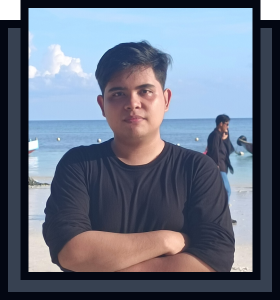
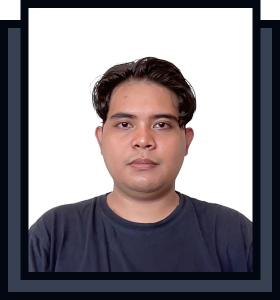
change foto

diff --git a/flutter_service_worker.js b/flutter_service_worker.js
@@ -3,7 +3,7 @@ const MANIFEST = 'flutter-app-manifest';
 const TEMP = 'flutter-temp-cache';
 const CACHE_NAME = 'flutter-app-cache';
 
-const RESOURCES = {"flutter_bootstrap.js": "c7465c189432228dffa836c9975cdee5",
+const RESOURCES = {"flutter_bootstrap.js": "358169ffe00f2846c32243969c0fe842",
 "version.json": "009c9e65172e010890f7f65fde438006",
 "index.html": "c1c5f29031926111ab3ccb7c551c88f9",
 "/": "c1c5f29031926111ab3ccb7c551c88f9",
@@ -17,17 +17,24 @@ const RESOURCES = {"flutter_bootstrap.js": "c7465c189432228dffa836c9975cdee5",
 "manifest.json": "d40c47d1c161f94dbcb13094d37f1f55",
 ".git/config": "36dfdada96e9bacad0020dd2ea847697",
 ".git/objects/59/62efb2dffef4c259bda261b128fcab4b659c34": "11e1a7683fedc73b6a0da57ee3c6a112",
+".git/objects/59/bc1bffe80440bb9f3e745297bc3b9f7de7b121": "4cb5dece523c9bbf8c472ab7b772b1b0",
 ".git/objects/04/c03aa9caec6df11cef93b58c809b615a085dfb": "5bd9ddd467d99627920ebeed9296c0f3",
+".git/objects/32/aa3cae58a7432051fc105cc91fca4d95d1d011": "4f8558ca16d04c4f28116d3292ae263d",
 ".git/objects/3d/fad2d0cffb232849a5167e586c343c86efaf7e": "916ef562e18b422dac2b3d7c1ae0a9a1",
 ".git/objects/58/b007afeab6938f7283db26299ce2de9475d842": "6c6cbea527763bb3cdff2cecfee91721",
 ".git/objects/58/356635d1dc89f2ed71c73cf27d5eaf97d956cd": "f61f92e39b9805320d2895056208c1b7",
 ".git/objects/94/0477bbc9a8b2702113cb44b5509cc171735ba3": "d4cea884a67c27599a6934643577416a",
 ".git/objects/94/f7d06e926d627b554eb130e3c3522a941d670a": "77a772baf4c39f0a3a9e45f3e4b285bb",
 ".git/objects/0e/7dc24763d99ab01f6663b0ace299679e8de2fa": "d4514dc3b9755dbefc9e0965c2109071",
+".git/objects/05/2c902bf93412706e85a3c358ac624db602d1ef": "4f03b16f5749fcfe809ae1b6c412b271",
 ".git/objects/9d/8c3c1e758ef8711186ae12fb0fd22aaa0f70db": "a391c0384d1cabd19155f2907d961b09",
 ".git/objects/9c/502e92818502755ff467ac1ce394cd51978b2b": "c9884dc42e4e59ea1f9191d6955c6769",
+".git/objects/02/118487d23f3156ebcb6af3f04ad0cbe9cf9570": "b3c1c8ac8e65431758afce1b9a16c9a4",
 ".git/objects/b3/ebbd38f666d4ffa1a394c5de15582f9d7ca6c0": "23010709b2d5951ca2b3be3dd49f09df",
+".git/objects/b3/d10dd568bf8637897503435f0bc9007ad20ac6": "a5ed0c16a76335e4310f307c7b65ccf9",
 ".git/objects/b4/a3ecb9428e2a4b8aff40c099e1c27d64a928f0": "6e4bc29289eb6be950713f1b329eaf0d",
+".git/objects/a2/c2c501d92cade4609fbff2a20d058036a0f07d": "5799cad65f96fe00122233a5625d5041",
+".git/objects/a2/0951a6798efe96cb94824a7bf5f68900474b55": "40a4be48695454de3f3d813ca1fffdfd",
 ".git/objects/bd/677c1de4563b80d8615ffb663e63908eb5cfd1": "2cd08b9352f34724993a69150b17fe30",
 ".git/objects/d1/098e7588881061719e47766c43f49be0c3e38e": "f17e6af17b09b0874aa518914cfe9d8c",
 ".git/objects/d6/9c56691fbdb0b7efa65097c7cc1edac12a6d3e": "868ce37a3a78b0606713733248a2f579",
@@ -37,15 +44,23 @@ const RESOURCES = {"flutter_bootstrap.js": "c7465c189432228dffa836c9975cdee5",
 ".git/objects/c7/4b4bd40b01661de4cd08c953e863c7e83b960c": "f45204f14c6a26a8975891ecb47f5ac1",
 ".git/objects/ee/eed15764228d00bf09b77d9198386f12e5060e": "43048693b5bd47f2bdc8b77f237e467b",
 ".git/objects/c9/bf8af1b92c723b589cc9afadff1013fa0a0213": "632f11e7fee6909d99ecfd9eeab30973",
+".git/objects/c9/9b42aadeb908d25bda6b0f351f0f7763b759d7": "debe6c5359a6f6c0a509e9c4e432d236",
+".git/objects/fc/1ec9fcb90ff9bd8f14c18f14197f9fdf56bd7e": "fa79b5b985b04a4229f2a12082ab4274",
 ".git/objects/fd/e8df8847dec73e3ae94c95de6e032e0cdf7421": "a4d561d964ed0b5f32b13017c24aed80",
 ".git/objects/f2/04823a42f2d890f945f70d88b8e2d921c6ae26": "6b47f314ffc35cf6a1ced3208ecc857d",
+".git/objects/f2/d7af667ef9408111e13f8de9205b5fcc80877c": "aad96ccfe3dbe73df554b219d1905f49",
+".git/objects/f5/010cda95492006dae3638dfb01a8d0822a1e6a": "04eb9fcdf209b67f396e5ab84cb956e2",
+".git/objects/cf/5e5260318d90197a1505087e97abf678945f06": "db45e02112dce67ff6a961dc50282904",
 ".git/objects/fe/3914bcf3baf9d87a873a444cac8aaf9dcd54c1": "372add7dd6cdabc32b9333e8d66bff72",
 ".git/objects/20/cb2f80169bf29d673844d2bb6a73bc04f3bfb8": "b807949265987310dc442dc3f9f492a2",
 ".git/objects/20/1afe538261bd7f9a38bed0524669398070d046": "82a4d6c731c1d8cdc48bce3ab3c11172",
 ".git/objects/18/eb401097242a0ec205d5f8abd29a4c5e09c5a3": "4e08af90d04a082aab5eee741258a1dc",
+".git/objects/27/af4491b3558edf0155a4868279b8f4a7923fdb": "982a2e3d5f63f94b33ce53fc50ccdbd8",
 ".git/objects/16/77d5049c99af3633e7f600dbb998f29cbf5198": "6fe29ca1b24f1ee8dd38dc13bd12c882",
+".git/objects/16/5da67191b73406e15fc3e6cf7cda3c195dc735": "86cfac30d97fb45bba2f4417782645d6",
 ".git/objects/1f/45b5bcaac804825befd9117111e700e8fcb782": "7a9d811fd6ce7c7455466153561fb479",
 ".git/objects/74/c726e32781bc2c0a83170f6800c0ef4cb9ddcf": "69a43282cb8038fd0577dc0529e5d6cb",
+".git/objects/17/f95da9405e4701b3ddb2a6b8b6e29ed47a839d": "aa31a30a1949c9bffd3fe4dbc05e4a2a",
 ".git/objects/7b/fa951a1ce93cd1a633590e1d3c12a13a046294": "ddd28097f2c7fecb3f3873f72e305d8a",
 ".git/objects/8a/a3196d085afc263bb5cc2867f2dc7e7051377e": "82dca47eb6a3308c001e4e1bea9dbe4a",
 ".git/objects/8a/aa46ac1ae21512746f852a42ba87e4165dfdd1": "1d8820d345e38b30de033aa4b5a23e7b",
@@ -55,16 +70,26 @@ const RESOURCES = {"flutter_bootstrap.js": "c7465c189432228dffa836c9975cdee5",
 ".git/objects/88/cfd48dff1169879ba46840804b412fe02fefd6": "e42aaae6a4cbfbc9f6326f1fa9e3380c",
 ".git/objects/9f/0c71b70a49664ced448c63edc9c4ff2bf8cf4a": "bfe12b0c8078a4f477699ecebf5fd96c",
 ".git/objects/6b/cdcc27f22e001e46defdfd9e23f224ff65dd67": "624b5324c1f5198f7f6ede95410d5b7b",
+".git/objects/6b/e909fbf40b23748412f0ea89bf0fae827ed976": "5f118419157d9534688915220cc803f7",
 ".git/objects/07/5b22e8abda428d8e7488a6c22fc1f2d649d6b2": "f2eb2e921fb72d7e4e8986e6bb94f2e9",
 ".git/objects/00/559eeb290fb8036f10633ff0640447d827b27c": "7fbd4486d5ea862eb2c1d2a07b06b395",
+".git/objects/5c/d94d8246c425c1c3990b89eaa50717ee1542f0": "164bf614d36e22b5ca204dd7b9904399",
 ".git/objects/09/4bb6ae24f0cd847d40cb4cc4a2434f2ec9b83b": "b9e6d850322c11db635bcf0a45b762ff",
+".git/objects/5d/15fadf1864d70c7184fca7d3efde79cdf68af5": "79a44d8578cc18e3add64aa6a97f0da0",
+".git/objects/3a/7525f2996a1138fe67d2a0904bf5d214bfd22c": "ab6f2f6356cba61e57d5c10c2e18739d",
+".git/objects/98/57c9b3b0448c92818efc5fda0f206b21914168": "ecbde07c564dabbec0f249821051b8af",
 ".git/objects/37/5c02aa7e4c5a2a7854f11e5b4566d261fce6aa": "0b4a2ab76b3b8e6cd2a698951b608110",
 ".git/objects/6c/4350ccefffcbfce57b238bfa701d2db660311e": "a425cc2de47b0e2cc13c644a41f8d64f",
+".git/objects/39/6098b1132548bf7d558ead8d3ba82706c470bd": "f09b05548fae2f2974423458981c33ac",
+".git/objects/90/bcfcf0a77ab618a826db0fd8b0942963b653af": "fc109675cdf1233dd6599a4c3c0a7a69",
 ".git/objects/d4/3532a2348cc9c26053ddb5802f0e5d4b8abc05": "3dad9b209346b1723bb2cc68e7e42a44",
 ".git/objects/d4/a7f7247b5a20aa97f4519c117932c31697b80b": "7d12b907c4dfbbf54ebae2ff3ebc0cf0",
 ".git/objects/ba/5317db6066f0f7cfe94eec93dc654820ce848c": "9b7629bf1180798cf66df4142eb19a4e",
 ".git/objects/a7/d05e2b8937bef6019cca6509e1448f82369d81": "c2d69d535798190e047735e9abc9ecf5",
 ".git/objects/b7/49bfef07473333cf1dd31e9eed89862a5d52aa": "36b4020dca303986cad10924774fb5dc",
+".git/objects/a8/d4b3528e963d096f3d8a1a07772d1f102d0b6c": "4006622aeb2b0a6625761a1370cc2f86",
+".git/objects/a8/4a321c17032948cd335ea5039e0ad50f742919": "3675e63e443d54a2a9e125c11d3357fd",
+".git/objects/de/d915261191c5ccb8d669ce54d2c3a9665355a4": "95087eded91093176fb92df87da043e9",
 ".git/objects/b0/daceb428a962ea64fe192b963f7ddf35296d4d": "d8f79b508230fbeefa41af15d3906fa6",
 ".git/objects/a6/ca61f4c5ae84f5199c467cd5888a9b9cb2fe97": "d40eacf682d3955d7b1c6d83d15cea3d",
 ".git/objects/b9/2a0d854da9a8f73216c4a0ef07a0f0a44e4373": "f62d1eb7f51165e2a6d2ef1921f976f3",
@@ -72,9 +97,11 @@ const RESOURCES = {"flutter_bootstrap.js": "c7465c189432228dffa836c9975cdee5",
 ".git/objects/f9/35d964ef79d34ab590c7c9b7b39593fc6d0459": "d537e8edc33d8d227285c641921a2de4",
 ".git/objects/f0/324db7b1fee8ee8a1cc32e6288d623b21639c8": "03889db5d7f00326871f6cb444509eca",
 ".git/objects/ff/e96263d68bf0809155378a2a9154b4f1ecb99f": "e6edb08402ab77980404900c45ff726a",
+".git/objects/e7/4940e24389c921433e28e5927562e67460bd5a": "caeda771011fc98b1bc4f220a169aedf",
 ".git/objects/f8/7f2d98bf0cf4b8e69632ba65e410ce2dbec168": "faf3cdfa1631a1c20240e91662457ae3",
 ".git/objects/e0/090aa35b6f5b322fef0c48b170c571e6a93b59": "eddcd6f6eebc084bcc93cce5b8c22a33",
 ".git/objects/77/13b90a1a564168a072653990ec3f61027085ca": "bd2ba0efd62e0e576fbe09741f12e4ac",
+".git/objects/84/0516208d35dcb4298847ab835e2ef84ada92fa": "36a4a870d8d9c1c623d8e1be329049da",
 ".git/objects/85/6a39233232244ba2497a38bdd13b2f0db12c82": "eef4643a9711cce94f555ae60fecd388",
 ".git/objects/1d/825a19de9b051f783f1978e63101c616b6d2fe": "3218e7b3f450bc844677e7a46d2254eb",
 ".git/objects/71/3f932c591e8f661aa4a8e54c32c196262fd574": "66c6c54fbdf71902cb7321617d5fa33c",
@@ -82,11 +109,12 @@ const RESOURCES = {"flutter_bootstrap.js": "c7465c189432228dffa836c9975cdee5",
 ".git/objects/7a/cb0d92b3d4f1dde4b01d427601116e382a5644": "8c08a976f807058b9cac2ff6b0021725",
 ".git/objects/7a/7f30ad8ce2e76786627ebf8dc56e18b5327011": "acc8b6fa55ffb3c0bdb1dfdbdbd83a04",
 ".git/objects/25/8b3eee70f98b2ece403869d9fe41ff8d32b7e1": "05e38b9242f2ece7b4208c191bc7b258",
+".git/objects/25/e2d9f56b11cd362337faf0a654f6948486b5b2": "7ae9e9e0b293c40853264d5667e2c7a8",
 ".git/HEAD": "cf7dd3ce51958c5f13fece957cc417fb",
 ".git/info/exclude": "036208b4a1ab4a235d75c181e685e5a3",
-".git/logs/HEAD": "c42d5f972707678a173c266755b3e194",
-".git/logs/refs/heads/main": "c42d5f972707678a173c266755b3e194",
-".git/logs/refs/remotes/origin/main": "ff78833ab34a0329f7459ff192135f12",
+".git/logs/HEAD": "aaa57c1f1927754f626d53dc281dd015",
+".git/logs/refs/heads/main": "aaa57c1f1927754f626d53dc281dd015",
+".git/logs/refs/remotes/origin/main": "58ff44851118d1f4c76024c6d7ba9e03",
 ".git/description": "a0a7c3fff21f2aea3cfa1d0316dd816c",
 ".git/hooks/commit-msg.sample": "579a3c1e12a1e74a98169175fb913012",
 ".git/hooks/pre-rebase.sample": "56e45f2bcbc8226d2b4200f7c46371bf",
@@ -101,10 +129,10 @@ const RESOURCES = {"flutter_bootstrap.js": "c7465c189432228dffa836c9975cdee5",
 ".git/hooks/pre-push.sample": "2c642152299a94e05ea26eae11993b13",
 ".git/hooks/update.sample": "647ae13c682f7827c22f5fc08a03674e",
 ".git/hooks/push-to-checkout.sample": "c7ab00c7784efeadad3ae9b228d4b4db",
-".git/refs/heads/main": "a13a6538dafb30b9f483f2337bd2e038",
-".git/refs/remotes/origin/main": "a13a6538dafb30b9f483f2337bd2e038",
-".git/index": "042186b444e38be3187ac22df5e2c826",
-".git/COMMIT_EDITMSG": "79bae32dc8a0f39d8c15bd17ecbb6875",
+".git/refs/heads/main": "d823539367d7d5e088158a7633b812c7",
+".git/refs/remotes/origin/main": "d823539367d7d5e088158a7633b812c7",
+".git/index": "77ac4ff6e236f34c0ba458de14d4fad8",
+".git/COMMIT_EDITMSG": "dcdc9aad4f59073811ec1510913d59a9",
 "assets/AssetManifest.json": "7810ffcb4061ad9f6db33aebe72686dc",
 "assets/NOTICES": "1a7d1089aec922ff3a28981a78533ef9",
 "assets/FontManifest.json": "92818e61d2b3673d24f9b8edfad3c095",
@@ -126,8 +154,8 @@ const RESOURCES = {"flutter_bootstrap.js": "c7465c189432228dffa836c9975cdee5",
 "assets/assets/images/icons/git-original.svg": "7ceae6625416696a5ca7f6eb2db76ae6",
 "assets/assets/images/icons/figma-original.svg": "5d528f86ab2ebd962522639b7d0184ef",
 "assets/assets/images/icons/flutter-original.svg": "67acc94dc2034a9e7515cc0a5ee6e5cd",
-"assets/assets/images/photo/profile_pic.png": "ee303fa97c3e9ae26a5d447fd099a52c",
-"assets/assets/images/photo/profile_pic2.png": "de0d1432bbe453fb6a131bc3f0bd37b5",
+"assets/assets/images/photo/profile_pic.png": "5d9b9b13659324570a727fed97e7de2d",
+"assets/assets/images/photo/profile_pic2.png": "02f39879a0922c0070ccb431bcbd09d4",
 "assets/assets/fonts/Poppins-Medium.ttf": "bf59c687bc6d3a70204d3944082c5cc0",
 "assets/assets/fonts/Poppins-Regular.ttf": "093ee89be9ede30383f39a899c485a82",
 "assets/assets/fonts/Poppins-Bold.ttf": "08c20a487911694291bd8c5de41315ad",

diff --git a/flutter_bootstrap.js b/flutter_bootstrap.js
@@ -11,6 +11,6 @@ _flutter.buildConfig = {"engineRevision":"b8800d88be4866db1b15f8b954ab2573bba996
 
 _flutter.loader.load({
   serviceWorkerSettings: {
-    serviceWorkerVersion: "4064475686"
+    serviceWorkerVersion: "506730594"
   }
 });
